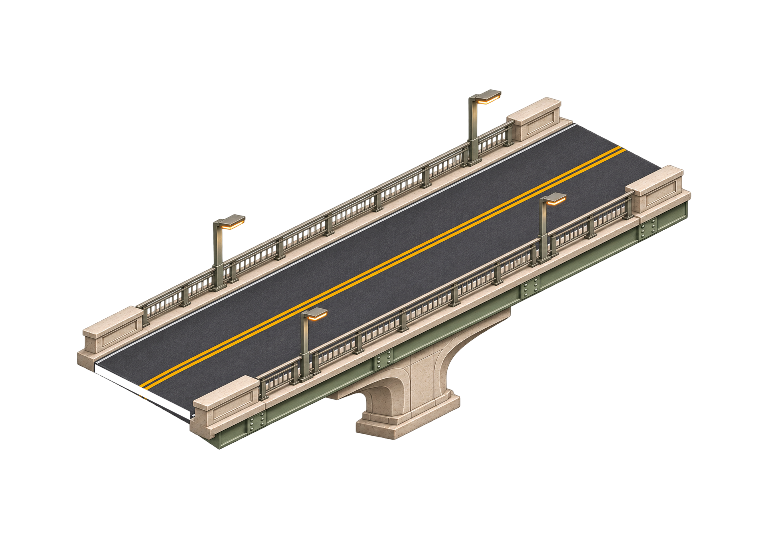
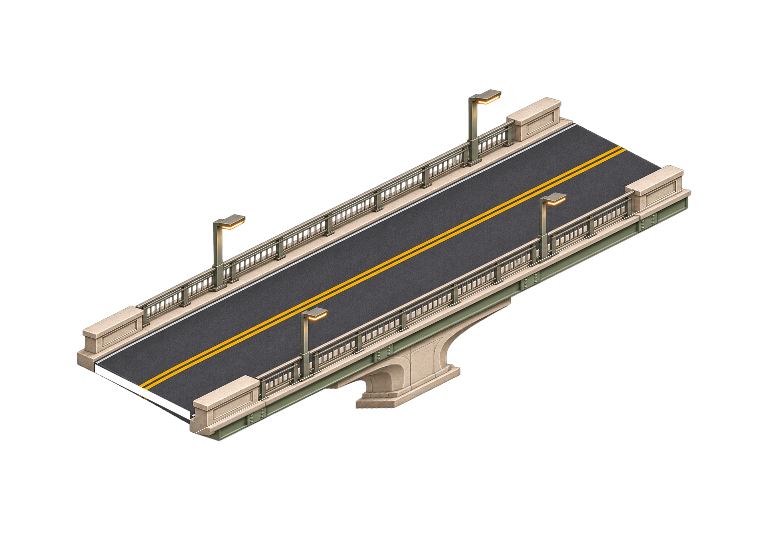
fix(city): center bridge foundations on the river water plane

Changed region(s): [[0.25, 0.3388, 0.9062, 0.8315]]

diff --git a/src/renderers/city-organic-layout.ts b/src/renderers/city-organic-layout.ts
@@ -399,7 +399,7 @@ export function createOrganicGround(plan: OrganicCity): (context: CanvasRenderin
   const water=plan.rivers.map(({left,right,z,top,bottom})=>{
     const half=(bottom-top)/2-CITY_PAINTED_BRIDGE_APPROACH,samples=Array.from({length:Math.ceil((right-left)*4)+1},(_,i)=>{
       const x=left+(right-left)*i/Math.ceil((right-left)*4),wave=.06*Math.sin(x*1.7+z);
-      return {x,near:z-half+wave,far:z+half+wave*.6};
+      return {x,near:z-half+wave,far:z+half-wave};
     });
     const bank=(side:'near'|'far')=>{const path=new Path2D();samples.forEach((p,i)=>i?path.lineTo(...project(p.x,p[side])):path.moveTo(...project(p.x,p[side])));return path};
     const lower=(x:number,z:number):[number,number]=>{const p=project(x,z);return [p[0],p[1]+CITY_RIVER_DEPTH*.5]};
@@ -430,10 +430,10 @@ export function createOrganicGround(plan: OrganicCity): (context: CanvasRenderin
       const gradient=context.createLinearGradient(...river.from,...river.to);
       gradient.addColorStop(0,'#829e8c');gradient.addColorStop(.2,'#608f8b');gradient.addColorStop(.55,'#497c81');gradient.addColorStop(.82,'#689c96');gradient.addColorStop(1,'#91aa94');
       context.fillStyle=gradient;context.fill(river.path);
+      context.strokeStyle='#d5e7d840';context.lineWidth=.012;context.stroke(river.ripples);
       context.fillStyle='#7f8e77';context.fill(river.nearWall);
       context.fillStyle='#6c7967';context.fill(river.farWall);
       context.strokeStyle='#c2d0b4';context.lineWidth=.035;context.stroke(river.near);context.stroke(river.far);
-      context.strokeStyle='#d5e7d840';context.lineWidth=.012;context.stroke(river.ripples);
       context.fillStyle='#b2b49a';context.fill(river.stones);
     }
     paintRoads(context);

diff --git a/src/renderers/city-layout.ts b/src/renderers/city-layout.ts
@@ -1,11 +1,12 @@
 import type { WeeklyCity } from './city-parcels';
+import bridgeLevels from './city-bridge-levels.json';
 
 export const CITY_STREET_LANE_WIDTH = .6;
 export const CITY_ROAD_WIDTH = CITY_STREET_LANE_WIDTH * 2;
 export const CITY_YEAR_GAP = CITY_STREET_LANE_WIDTH * 4;
 // 河带含两岸大道的半幅；引桥从路缘起坡后仍保留4格桥身。
 export const CITY_PARK_DEPTH = 9.6;
-export const CITY_RIVER_DEPTH = .45;
+export const CITY_RIVER_DEPTH = bridgeLevels.riverDepth;
 const QUARTER_COLUMNS = 13;
 export const CITY_QUARTER_ROADS = [13, 26 + CITY_ROAD_WIDTH, 39 + CITY_ROAD_WIDTH * 2] as const;
 export const CITY_YEAR_WIDTH = QUARTER_COLUMNS * 4 + CITY_ROAD_WIDTH * 3;

diff --git a/src/renderers/city-bridges.ts b/src/renderers/city-bridges.ts
@@ -1,8 +1,9 @@
 import { sampleCityBridge, type CityBridge } from './city-road-network';
 import { CITY_ROAD_WIDTH } from './city-layout';
 import catalog from './city-baked-catalog.json';
+import bridgeLevels from './city-bridge-levels.json';
 
-export const CITY_PAINTED_BRIDGE_ELEVATION=.18;
+export const CITY_PAINTED_BRIDGE_ELEVATION=bridgeLevels.deckElevation;
 export const CITY_PAINTED_BRIDGE_APPROACH=1.6;
 
 /** 引桥由年度大道的靠河路缘向外起坡，不能覆盖岸路的任何一条车道。 */

diff --git a/docs/reports/CITY-WIDER-STREETS-AND-BRIDGES.md b/docs/reports/CITY-WIDER-STREETS-AND-BRIDGES.md
@@ -1,3 +1,38 @@
+# 桥墩与桥拱的河道落点修正
+
+2026-11-07，接续用户两张真实页面截图，基线为城市PR #63的1029b59。上一轮只证明桥面和引桥端点，未证明下部结构基础的落点，本节不把那次画面判断作为本次通过证据。
+
+旧标定只把原画的两个桥面端点变换到道路轴，没有给支撑基础标定水位。将原现代桥的可见基础中心投影回旧0.45水深平面，沿4格跨河方向落在2.541，偏离中点0.541；石拱桥两端基础的横向投影也不一致。岸线原near=wave、far=wave×0.6，还把局部河道中线偏移最多0.048格。
+
+本轮只在制作时校准桥面以下的竖直投影：桥面前缘固定，测量基础参考点，单墩落点固定在跨河中点，双端基础使用相同横向位置及对称纵向位置。不横移整座桥、不改桥面锚点或引桥。上部像素直接保留，结果继续是两张按需加载PNG，运行中不做图像变形。石桥按非透明内容计算额外底部余量，避免桥脚延长后被裁切。
+
+沿用户既定大桥/深河方案，水面由0.45再下沉至0.75，为下部结构留空间，桥面抬升仍0.18、河道宽度与道路/引桥坐标不变。新的city-bridge-levels.json由河道、引桥与离线烘焙共用，避免不同水位基准。两岸波动改为±wave，局部中线保持固定；水纹先画、岸壁后画，避免下沉后的岸壁上出现水纹。
+
+### 实际检查
+
+正式规划器/createOrganicGround/createCityView/loadCityImages和真实PNG，经本机Skia Canvas在1400×900、DPR1.5、两种桥型实际maxZoom绘制。六年2191天/21904次/3桥；二十年7301天/72997次/9桥。六年场景的weekly、layout、items、roadNetwork、路名、信号灯、河道边界及全部坐标与基线逐项完全相同；两组日期索引无重复，合计守恒。桥面与岸路落点不变。
+
+可重复输入沿用下文：末年2025的ISO周年逐日生成，count=1+i×7%19、90天阈值、命名起点2006。无遮挡诊断仅临时隐藏贡献建筑，并在真实水面高度叠加河岸/中线；它不进入产品。对照查看两种桥的基础与岸线及中线，不再用桥面中点代替基础中心。
+
+4格跨距内，可见基础中心的标定结果：
+
+| 桥型 | 纵向落点Z | 两岸留量 | 横向落点W |
+| --- | --- | --- | --- |
+| 现代单墩 | 2.000 | 两侧均2.000 | 1.027 |
+| 石拱桥双端 | 0.472、3.528 | 两侧均0.472 | 两端均1.238 |
+
+W、Z相对桥图1.6×4标定包络，W为可见基础中心，不把可见前侧面当整座桥的横向中心；河岸的±wave改变河宽，基础仍相对同一局部中线对称。参考点为原画可见基础的量测，不声称恢复了完整三维模型。投影误差在浮点量级；实际观感仍须真实浏览器确认。
+
+桥面前缘以上（避开2像素边界）石桥240000、梁桥259200个像素与基线RGBA完全一致；两张图四边各2像素的检查没有非透明内容。21张交通PNG重新解码RGBA差异0，19张车/灯图逐字节不变，源PNG未修改。石桥768×543、342645 bytes，梁桥768×552、267393 bytes，共610038 bytes，较上轮增加18736 bytes；catalog只改石桥高度元数据以容纳完整桥脚。
+
+`npm run check`、保留PR #65的组合生产构建、diff检查及临时117文件ZIP核验通过；构建/安装哈希与CI另记录在当前PR和本机验收指引。没有新增单元测试。运行未增加图片数量、依赖、权限、数据请求、缓存字段、动画或持续帧。
+
+根dist已更新，114份构建文件逐一SHA256相同；本轮仅更换landscape.js与两张桥PNG，content/entry/manifest/版本/权限及当前Terrain分包不变。landscape SHA256为c91a64357c35a5a851039f9ed7181be6d30e10537cc94ba7974345934be6880e。117文件临时ZIP为22,817,894 bytes，SHA256为5c78ffd331420c401770dc11ec41d3ce63d0ea94eda2ecf65b2a3ac9d93e0d30。
+
+本机浏览器控制仍在启动阶段因符号链接的可写根路径退出，没有连接用户会话、修改Codex设置或绕过控制。离线画面不作为真实Chrome/MV3或硬件性能通过。只保留本报告、正式源码/素材/标定，临时输入、截图、脚本、日志、ZIP和构建在记录后清理。用户的原截图不加入Git、不删除。
+
+---
+
 # 街道拓宽、路缘引桥与两种桥型
 
 2026-11-07；基线为城市PR #63的5b73b36（含已审查的19款建筑接入），继续更新同一PR，不合入main。用户要求年度/季度街道更宽、路名更清楚、引桥不盖岸路、桥墩协调并增加桥型。

diff --git a/docs/design/city-transport/v2/README.md b/docs/design/city-transport/v2/README.md
@@ -4,12 +4,12 @@
 
 | 桥型 | 正式源图 | 支撑方式 | 运行图 |
 | --- | --- | --- | --- |
-| 石拱桥 | bridge-stone-wide.png | 单拱、成对同式端部支撑，无中间桥墩 | transport-bridge-stone.png，768×527，307,192 bytes |
-| 现代梁桥 | bridge-girder-compact.png | 单个居中 T 形桥墩、低梁和金属栏杆 | transport-bridge-girder.png，768×552，284,110 bytes |
+| 石拱桥 | bridge-stone-wide.png | 单拱、成对同式端部支撑，无中间桥墩 | transport-bridge-stone.png，768×543，342,645 bytes |
+| 现代梁桥 | bridge-girder-compact.png | 单个居中 T 形桥墩、低梁和金属栏杆 | transport-bridge-girder.png，768×552，267,393 bytes |
 
-两图均1774×887源尺寸，不随发行包分发；运行图合计591,302 bytes，相对旧桥净增184,521 bytes。每座桥按真实年度与季度序号固定选型，缩放不重新随机选择；只解码场景选中的桥型。占地标定为1.6×4，实际桥面车幅按各自原画量测，不把装饰桥当作物理工程图。
+两图均1774×887源尺寸，不随发行包分发；运行图合计610,038 bytes，相对旧桥净增203,257 bytes。每座桥按真实年度与季度序号固定选型，缩放不重新随机选择；只解码场景选中的桥型。占地标定为1.6×4，实际桥面车幅按各自原画量测，不把装饰桥当作物理工程图。
 
-`calibration.json`记录桥面上沿端点、横向坡度、近端沥青封口遮罩与端面车幅。保持竖向构件方向，桥纵轴映射为4格；烘焙去除近端沥青竖直封口，源图不改写。引桥使用同一份端面车幅，在1.6格内从季度路宽度缓和过渡，并在岸路靠河路缘以零高度接入。桥面继续抬升0.18，河面下沉0.45；岸路车道不在引桥下面穿行。
+`calibration.json`记录桥面上沿端点、横向坡度、近端沥青封口遮罩与端面车幅。保持竖向构件方向，桥纵轴映射为4格；烘焙去除近端沥青竖直封口，源图不改写。引桥使用同一份端面车幅，在1.6格内从季度路宽度缓和过渡，并在岸路靠河路缘以零高度接入。桥面继续抬升0.18，河面下沉0.75；岸路车道不在引桥下面穿行。
 
 制作命令：
 
@@ -20,3 +20,5 @@ node scripts/bake-city-transport.mjs --outDir <本轮临时目录>/baked --canva
 输出21张交通PNG及catalog/report；每张重新解码后RGBA差异必须为0。车辆和信号灯的19张PNG与第一版逐字节一致。桥内容横向预算764像素，含两侧透明边实际长边不超过768。运行只解码正式PNG，不执行标定、像素处理或生成桥梁路径。
 
 提示词和迭代见[PROMPTS.md](PROMPTS.md)。仅本机离线实际Canvas渲染已检查；最终浏览器观感及性能仍待验收。
+
+2026-11-07桥脚修正：supportFeet标记可见基础中心；桥面以下按共同水位校准竖直投影，单墩落在跨河中点，两端基础落在同一横向位置且到两岸等距。桥面以上直接保留原像素。city-bridge-levels.json统一运行河深、桥面抬升与离线标定水位；只在制作时做像素变换。石拱桥额外保留底部透明余量，避免校正后桥脚被裁切。

diff --git a/ASSETS.md b/ASSETS.md
@@ -21,7 +21,7 @@
 
 ## 2026-11-07 桥梁扩充
 
-第二版精绘石拱桥与单桥墩现代梁桥替代旧运行桥图，新增两张、停用一张。两图为内置imagegen生成及编辑，含透明边长边不超过768像素，合计591,302 bytes，净增184,521 bytes。源图、完整提示词及标定见`docs/design/city-transport/v2/`，不进入发行包；运行仍按场景选型按需解码。第一版源图保留。
+第二版精绘石拱桥与单桥墩现代梁桥替代旧运行桥图，新增两张、停用一张。两图为内置imagegen生成及编辑，含透明边长边不超过768像素，合计610,038 bytes，较旧运行桥图净增203,257 bytes。源图、完整提示词及标定见`docs/design/city-transport/v2/`，不进入发行包；运行仍按场景选型按需解码。第一版源图保留。
 
 ## 依赖
 
